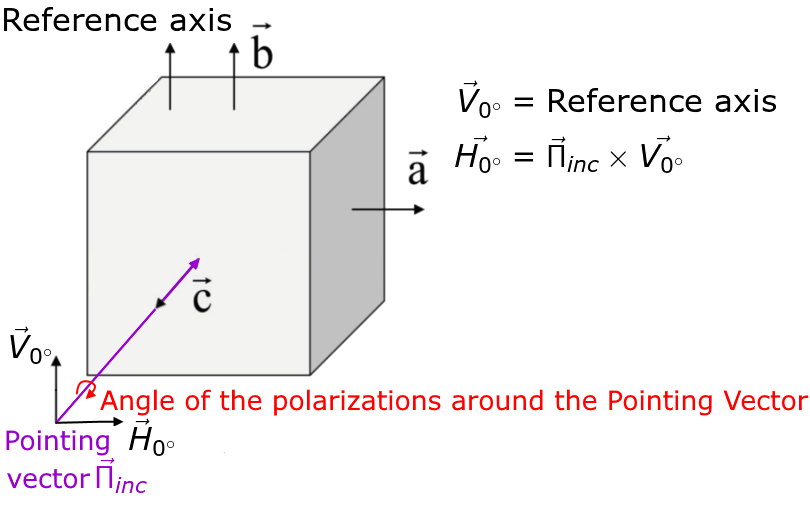
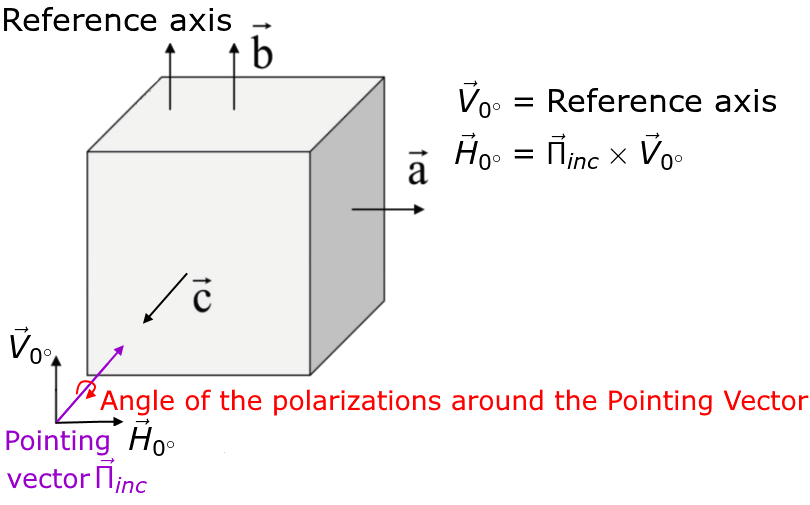
documentation update

diff --git a/public/html/help.html b/public/html/help.html
@@ -4,7 +4,8 @@
   <meta charset="utf-8">
   <meta name="viewport" content="width=device-width, height=device-height, initial-scale=1">
   <title>Raman Selection Rules Calculator -  Help</title>
-
+  <script src="https://polyfill.io/v3/polyfill.min.js?features=es6"></script>
+  <script id="MathJax-script" async src="https://cdn.jsdelivr.net/npm/mathjax@3/es5/tex-mml-chtml.js"></script>
   <link rel="stylesheet" href="../css/bulma.min.css">
   <link rel="stylesheet" type="text/css" href="../css/index.css">
   <link rel="shortcut icon" type="image/ico" href="../img/icon.ico"/>
@@ -98,11 +99,13 @@
 
       <h1>Basics</h1>
       <ol>
-        <li>Choose your point group in the list </li>
-        <li>Choose your pointing vector</li>
-        <li>Choose a reference axis (this correspond to the vertical polarization axis with an angle of 0°)</li>
-        <li>Enter your polarizations</li>
-        <li>Choose the orientation of your sample with respect to the reference axis (the reference is fixed, the polarizations move) </li>
+        <li>By default the database is the Loudon’s one. <br> You can choose to change database in "Utilities".  </li>
+        <li>Choose your point group in the list. </li>
+        <li>You can verify and print Raman matrix in "Utilities" <br> To reset printing of matrix when you change point group or database, hide and show matrix again. </li>
+        <li>Choose the direction of the pointing vector \(\vec{\Pi}_{inc}\) . <br> When you choose a crystallographic axis as a direction, calculation will be done with "minus the axis" as incident vector (see illustration on the right). <br> If you choose "Other", it will take exactly the input as a pointing vector.</li>
+        <li>Choose a reference axis, it must be perpendicular to the pointing vector  \(\vec{\Pi}_{inc}\). <br> This reference will be used as the vertical polarization axis with an angle of 0°. <br> The horizontal polarization will be compute as  \(\vec{H}_{0^{\circ}}=\vec{\Pi}_{inc}\times\vec{V}_{0^{\circ}}\)</li>
+        <li>Enter your polarizations (vertical, horizontal, circular left or right)</li>
+        <li>Choose the angle of rotation of polarizations with respect to the reference axis (the reference is fixed, the polarizations move). <br> The angle is in degree (not radians) and the rotation is taken clockwise. </li>
         <li>Click on "Calculate"</li>
         <li>Choose another polarization if you want and press again 'Calculate'</li>
       </ol>
@@ -111,10 +114,15 @@
         <br>
       <dt><b>NB :</b></dt>
       <dd> Press 'Reset table' if you want to change point group or database! </dd>
-      <dd> You can save results in LaTeX format </dd>
+      <dd> You can save results in \(\LaTeX\) format (you will need tabular and adjustbox package in your document)</dd>
       </dl>
 
-      <h1> Notations </h1>
+      
+</div>
+
+<div class="column is-half">
+
+  <h1> Notations </h1>
      
      <dd> Results are presented using Porto notation as a(bc)d with : </dd>  <br>
       <ol>
@@ -123,10 +131,11 @@
         <li> c the scattered polarization</li>
         <li> d the scattered light direction</li>
       </ol>
-</div>
 
-<div class="column is half">
-  <img id="schema" src="../img/illustration.png" height="450" width="450">
+  <center>
+    <img id="schema" src="../img/illustration.png" height="450" width="450">
+  </center>
+ 
 </div>
 
 <script src="../js/code.js"></script>

diff --git a/public/html/aboutThis.html b/public/html/aboutThis.html
@@ -102,15 +102,15 @@
         This program compute raman selection rules depending on : <br>
         <ol>
           <li>The symmetry of the crystal  </li>
-          <li>The orientation of the crystal</li>
-          <li>The pointing vector</li>
+          <li>The orientation of incident and scattered polarizations</li>
+          <li>The Pointing vector</li>
           <li>Polarization of your excitation/collection path</li>
         </ol>
-        
+        Calculations are done in back scattering geometry (same Pointing vector for incident and scattered light but with opposite direction)
       </p>
      <br>
-     <p>  The reference axis is needed to compute polarisation depending on the pointing vector. <br>
-      <img src= "../img/alert.png"> </img> It must be perpendicular to the pointing vector  <img src= "../img/alert.png"> </img>
+     <p>  The reference axis is needed to compute polarisation depending on the Pointing vector. (see "How to use" section for details) <br>
+      <img src= "../img/alert.png"> </img> It must be perpendicular to the Pointing vector  <img src= "../img/alert.png"> </img>
       </p>
     
       <br>

diff --git a/public/js/code.js b/public/js/code.js
@@ -408,7 +408,7 @@ function save_tex(){
     number_col+= "c|"
    }
 
-  result_str = "\\begin{table}[H] \n \\centering \n \\begin{adjustbox}{max width=\\textwidth} \n \\begin{tabular}{" + number_col +"}\n \\toprule \n" + result_str + "\\bottomrule \n \\end{tabular} \n \\end{adjustbox} \n \\caption{} \n \\label{} \n \\end{table}"
+  result_str = "\\begin{table}[H] \n \\centering \n \\begin{adjustbox}{max width=\\textwidth} \n \\begin{tabular}{" + number_col +"}\n \\toprule \n" + result_str + "\\bottomrule \n \\end{tabular} \n \\end{adjustbox} \n \\caption{Raman selection rules for the space group  . Calculation are from G.Setnikar et al. \\cite{G.Setnikar et al}} \n \\label{} \n \\end{table}"
   
   const downloadToFile = (content, filename, contentType) => {
     const a = document.createElement('a');

diff --git a/public/css/index.css b/public/css/index.css
@@ -117,6 +117,7 @@ code {
 
 li {
   list-style-type: circle;
+  padding-bottom: 0.15cm;
 }
 
 .select

diff --git a/public/python/computer.py b/public/python/computer.py
@@ -149,7 +149,7 @@ def calcul_algo():
         return res_tab
     
  
-    #get parameter from UI
+    #block unallowed parameter from UI
 
     try:
         space_group = sys.argv[1]
@@ -197,6 +197,9 @@ def calcul_algo():
         print("angle")
         return
     
+
+    #get parameter from UI
+
     space_group = sys.argv[1]
     pointing_vector = sys.argv[2]
     ref_axis = sys.argv[3]
@@ -256,8 +259,7 @@ def calcul_algo():
         print("false")
     #build polar ref
     vec_global_V = crist_axis/crist_axis.norm()
-    #print(vec_global_V)
-    #vec_global_H_temp = vec_global_V.cross(pointing)
+
     vec_global_H_temp = pointing.cross(vec_global_V)
     vec_global_H = vec_global_H_temp/vec_global_H_temp.norm()
 
